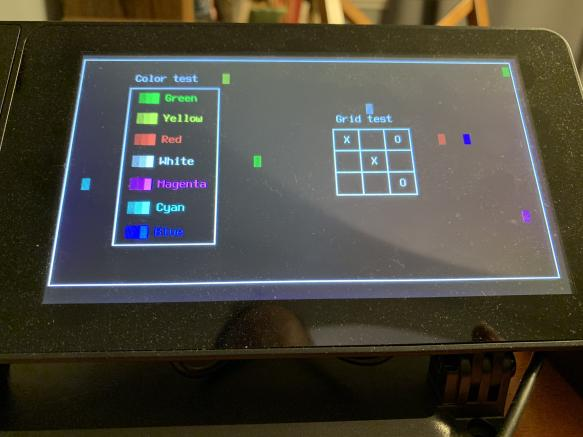
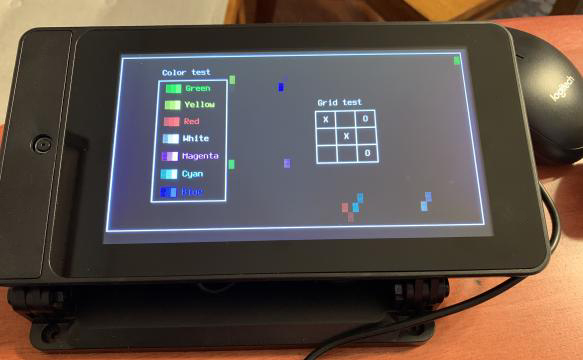
Improve collision logic

diff --git a/demo.c b/demo.c
@@ -81,7 +81,7 @@ void Add_Particle(int x, int y) {
 			p->x = x;
 			p->y = y;
 
-			// generate random dx and dy
+			// generate random motion
 			while (p->dx == 0 & p->dy == 0) {
 				p->dx = Random(1, 3) - 2;
 				p->dy = Random(1, 3) - 2;
@@ -159,6 +159,12 @@ void Animate_Particles() {
 		if (ch != ' ') {
 			dx = -p->dx;
 			dy = -p->dy;
+			ch = mvinch(y + dy, x + dx);
+			if (ch != ' ') {
+				dx = 0;
+				dy = 0;
+			}
+
 		}
 		x = x + dx;
 		y = y + dy;
@@ -246,13 +252,13 @@ void init_screen() {
 
 	// init colorsets
 	start_color();
-	init_color(COLOR_RED, 1000, 0, 0);
 	init_color(COLOR_GREEN, 0, 1000, 0);
-	init_color(COLOR_BLUE, 0, 0, 1000);
 	init_color(COLOR_YELLOW, 1000, 1000, 0);
+	init_color(COLOR_RED, 1000, 0, 0);
 	init_color(COLOR_WHITE, 1000, 1000, 1000);
 	init_color(COLOR_MAGENTA, 1000, 0, 1000);
 	init_color(COLOR_CYAN, 0, 1000, 1000);
+	init_color(COLOR_BLUE, 0, 0, 1000);
 
 	init_pair(1, COLOR_GREEN, COLOR_BLACK);
 	init_pair(2, COLOR_YELLOW, COLOR_BLACK);
